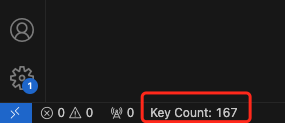
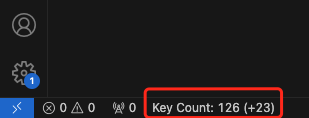
Added 2 counters and some new features

diff --git a/src/counter.ts b/src/counter.ts
@@ -3,22 +3,25 @@ import * as vscode from 'vscode';
 export default class Counter {
     private _statusBarItem: vscode.StatusBarItem = vscode.window.createStatusBarItem(vscode.StatusBarAlignment.Left);
     _count: number;
+    _totalCount: number;
     _infoShowNum: number;
 
-    constructor(count: number, infoShowNum: number) {
+    constructor(count: number, totalCount: number, infoShowNum: number) {
         this._count = count;
+        this._totalCount = totalCount;
         this._infoShowNum = infoShowNum;
-        this._statusBarItem.text = `Key Count: ${count}`;
+        this._statusBarItem.text = `Key Count: ${totalCount} (+${count})`;
         this._statusBarItem.show();
     }
 
     public keyPress(event: vscode.TextEditorSelectionChangeEvent) {
         if (event.kind === vscode.TextEditorSelectionChangeKind.Keyboard) {
             this._count++;
-            this._statusBarItem.text = `Key Count: ${this._count}`;
+            this._totalCount++;
+            this._statusBarItem.text = `Key Count: ${this._totalCount} (+${this._count})`;
             
-            if (this._count % this._infoShowNum == 0) {
-                vscode.window.showInformationMessage(`🏅 Keyboard pressed ${this._count} times!`);
+            if (this._totalCount % this._infoShowNum == 0) {
+                vscode.window.showInformationMessage(`🏅 Keyboard pressed ${this._totalCount} times!`);
             }
         }
     }
@@ -29,6 +32,6 @@ export default class Counter {
 
     public updateCount(newCount: number) {
         this._count = newCount;
-        this._statusBarItem.text = `Key Count: ${this._count}`;
+        this._statusBarItem.text = `Key Count: ${this._totalCount} (+${this._count})`;
     }
 }

diff --git a/src/extension.ts b/src/extension.ts
@@ -3,23 +3,29 @@ import Counter from './counter';
 
 let active = true;
 let count = 0;
+let totalCount = 0;
 let infoShowNum = 500;
 let counter: Counter;
 
 export function activate(context: vscode.ExtensionContext) {
 	console.log('key-press-counter is now active!');
 
+    const globalState = context.globalState;
+    totalCount = globalState.get('count', totalCount);
+
     let isActive = vscode.commands.registerCommand('key-press-counter.toggle', () => {
         active = !active;
         vscode.window.showInformationMessage(`KeyPressCounter Toggled ${active ? 'Active' : 'Inactive'}`);
     });
 
-    counter = new Counter(count, infoShowNum);
+    counter = new Counter(count, totalCount, infoShowNum);
 
     // Monitor key pressing event
     vscode.window.onDidChangeTextEditorSelection((event) => {
         if (active) {
             counter.keyPress(event);
+            globalState.update('count', counter._totalCount);
+            console.log(globalState.get('count'))
         }
     });
 
@@ -36,7 +42,7 @@ export function activate(context: vscode.ExtensionContext) {
         });
     });
 
-    let resetCounter = vscode.commands.registerCommand('key-press-counter.resetCounter', () => {
+    let resetCounter = vscode.commands.registerCommand('key-press-counter.resetCurrentCounter', () => {
         count = 0;
         counter.updateCount(count);
     });

diff --git a/README.md b/README.md
@@ -1,4 +1,4 @@
-# key-press-counter README
+# key-press-counter
 
 This is a keyboard press counter.
 
@@ -9,6 +9,10 @@ Do you sometimes want to know how many times of keys you pressed in VSCode or yo
 ## Features
 
 ### Key Press Monitor
+There are 2 counters in this extension.
+- The left one is **total key press counter**. It will record all your key presses in vscode.
+- The right one (eg.`+16`) is **current session key press counter**. It just record your key presses in current session.
+
 ![counter](images/image-3.gif)
 
 ### Notification
@@ -20,7 +24,7 @@ Do you sometimes want to know how many times of keys you pressed in VSCode or yo
 |---|---|---|
 | KeyPressCounter: Active/Inactive | Active | Decide the counter to monitor key presses or not. |
 | KeyPressCounter: Set message push count | 500 | Set the number of times you press the keyboard every time to receive a message. |
-| KeyPressCounter: Reset Counter | | Set the counter number to 0. |
+| KeyPressCounter: Reset current session counter | | Set the current session counter number to 0. |
 
 ## Release Notes
 
